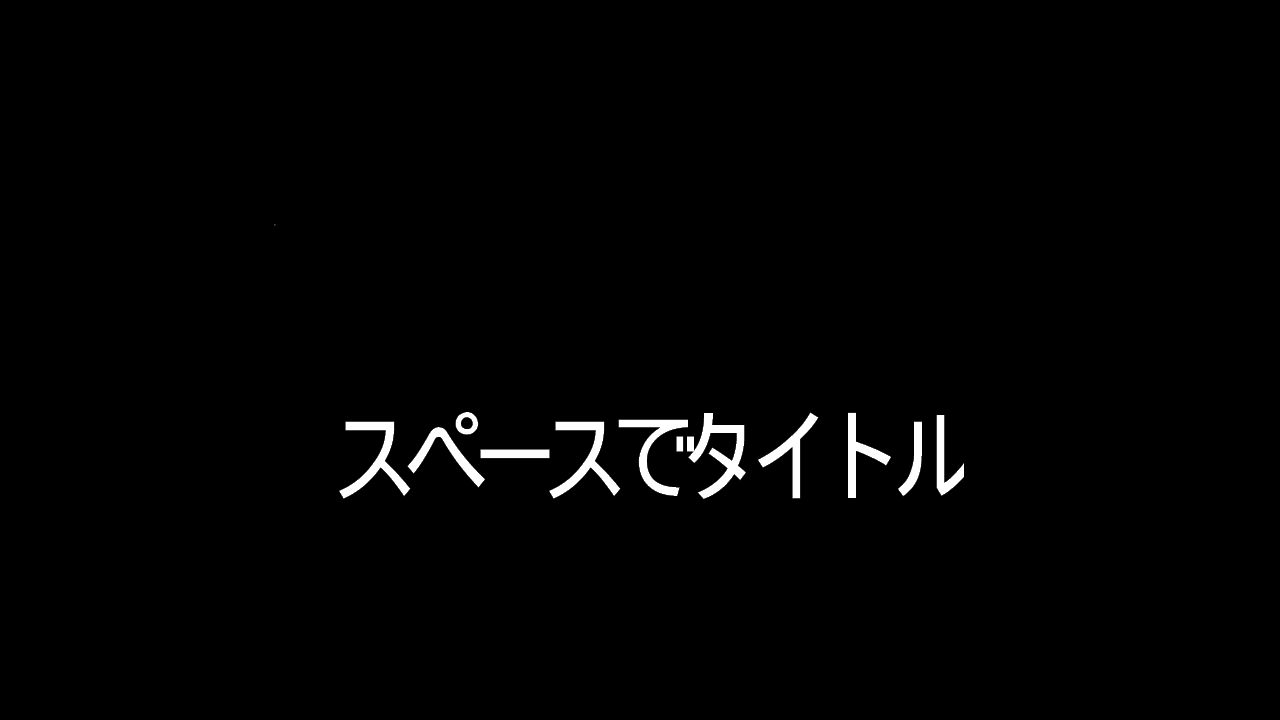
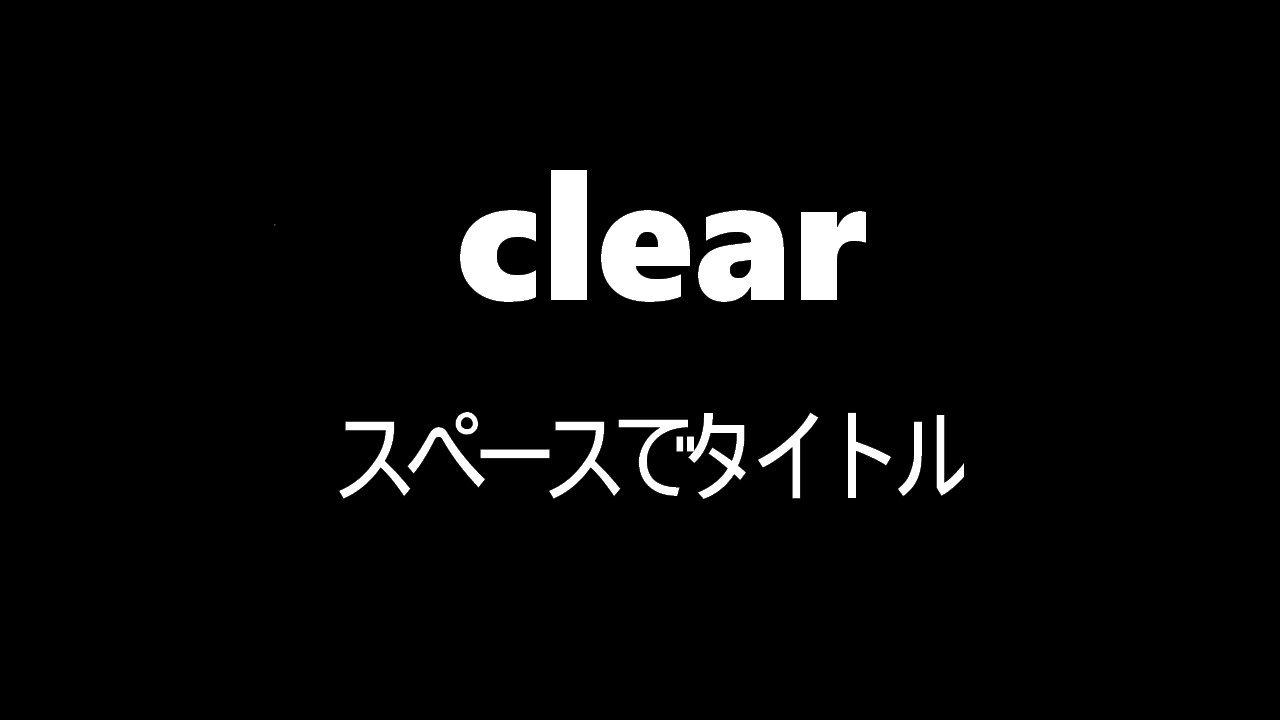
横一列

Changed region(s): [[0.3438, 0.2139, 0.6875, 0.4278]]

diff --git a/DirectXGame/Enemy.cpp b/DirectXGame/Enemy.cpp
@@ -25,7 +25,7 @@ void Enemy::Initialize(KamataEngine::Model* enemyModel, KamataEngine::WorldTrans
 	enemyModel_ = enemyModel;
 	enemyWt_.Initialize();
 	enemyWt_.translation_ = {position.x, position.y, position.z};
-	//方向処理
+	// 方向処理
 	entranceDirection_.x = -position.x;
 	entranceDirection_.y = -position.y;
 
@@ -75,17 +75,14 @@ void Enemy::FireFanBullet() {
 		direction.x = std::cos(bulletAngle);
 		direction.y = std::sin(bulletAngle);
 
-		 Bullet* bullet = new Bullet();
-		 Vector3 bulletPosition = enemyWt_.translation_;
-		 bullet->Initialize(target_, bulletPosition, bollModel_, camera_, player_, 0.08f, Bullet::MoveType::Straight, direction);
-		 bullets_.push_back(bullet);
-	
+		Bullet* bullet = new Bullet();
+		Vector3 bulletPosition = enemyWt_.translation_;
+		bullet->Initialize(target_, bulletPosition, bollModel_, camera_, player_, 0.08f, Bullet::MoveType::Straight, direction);
+		bullets_.push_back(bullet);
 	}
 }
 
 void Enemy::UpdateEntrance() {
-	
-
 
 	if (isFirstEnemy_) {
 		// 1体目の入場処理
@@ -107,11 +104,26 @@ void Enemy::UpdateEntrance() {
 	}
 
 	enemyWt_.UpdateMatrix();
-
 }
 
 // 敵の移動
 void Enemy::Move() {}
+
+void Enemy::FireRainBullet() {
+
+	Vector2 direction = {0.0f, -1.0f};
+
+	Vector3 bulletPosition = {-8.0f, 5.0f, 0.0f};
+
+	for (int i = 0; i < 10; i++) {
+
+		bulletPosition.x = -8.0f + 1.5f * i;
+
+		Bullet* bullet = new Bullet();
+		bullet->Initialize(target_, bulletPosition, bollModel_, camera_, player_, 0.08f, Bullet::MoveType::Straight, direction);
+		bullets_.push_back(bullet);
+	}
+}
 
 void Enemy::TakeDamage() { isDead_ = true; }
 
@@ -134,7 +146,7 @@ void Enemy::Update() {
 
 	attackTimer_ += 1.0f / 60.0f;
 
-	if (attackType_ == AttackType::Homing){
+	if (attackType_ == AttackType::Homing) {
 
 		int maxShots = isRapidFire_ ? 5 : maxShotCount_;
 
@@ -159,20 +171,21 @@ void Enemy::Update() {
 			}
 		}
 
-		
-
-		
-	
-	
 	} else if (attackType_ == AttackType::Fan) {
 		fanAttackTimer_ += 1.0f / 60.0f;
 		if (fanAttackTimer_ > 1.0f) {
 			FireFanBullet();
 			fanAttackTimer_ = 0.0f;
 		}
+	} else if (attackType_ == AttackType::Rain) {
+		rainAttackTimer_ += 1.0f / 60.0f;
+
+		if (!isRainFired_ && rainAttackTimer_ > 1.0f) {
+			FireRainBullet();
+			isRainFired_ = true;
+			rainAttackTimer_ = 0.0f;
+		}
 	}
-
-
 
 	for (Bullet* bullet : bullets_) {
 		bullet->Update();
@@ -191,8 +204,6 @@ void Enemy::Update() {
 	        }),
 	    bullets_.end());
 	enemyWt_.UpdateMatrix();
-
-
 }
 
 void Enemy::Draw() {

diff --git a/DirectXGame/Enemy.h b/DirectXGame/Enemy.h
@@ -16,9 +16,11 @@ public:
 
 	enum class AttackType
 	{
-		Homing, 
-		Fan 
+		Homing, //追尾
+		Fan,//扇型
+		Rain,//横一列
 	};
+
 	void SetAttackType(AttackType type) { attackType_ = type; }
 
 	void Initialize(KamataEngine::Model* enemyModel, KamataEngine::WorldTransform* target, KamataEngine::Camera* camera, player* player, KamataEngine::Vector3 position, bool isFirstEnemy);
@@ -37,6 +39,9 @@ public:
 	void FireFanBullet();
 
 	bool IsEntranceFinished() { return isEntranceFinished_; };
+	
+	//横一列
+	void FireRainBullet();
 
 	// 死ぬ
 	bool IsDead() const { return isDead_; }
@@ -77,7 +82,9 @@ private:
 
 	//========= 5の方向用 ===============
 	float fanAttackTimer_ = 0.0f;
-
+	//========= 横一列 ===============
+	float rainAttackTimer_ = 0.0f;
+	bool isRainFired_ = false;
 
 	//========== 敵のモデル ==============
 	KamataEngine::Model* enemyModel_;

diff --git a/DirectXGame/GameScene.cpp b/DirectXGame/GameScene.cpp
@@ -121,7 +121,11 @@ void GameScene::CreateEnemy() {
 		} else if (enemySpawnCount_ == 3) {
 
 			enemy->SetAttackType(Enemy::AttackType::Fan);
+		} else if (enemySpawnCount_ == 4) {
+
+			enemy->SetAttackType(Enemy::AttackType::Rain);
 		}
+
 
 		enemySpawnCount_++;
 

diff --git a/DirectXGame/main.cpp b/DirectXGame/main.cpp
@@ -125,7 +125,7 @@ void SceneUpdate() {
 		//	return;
 		// }
 
-		if (gameTimer >= 10.0f && !isClearEffect) {
+		if (gameTimer >= 40.0f && !isClearEffect) {
 			isClearEffect = true;
 		}
 
